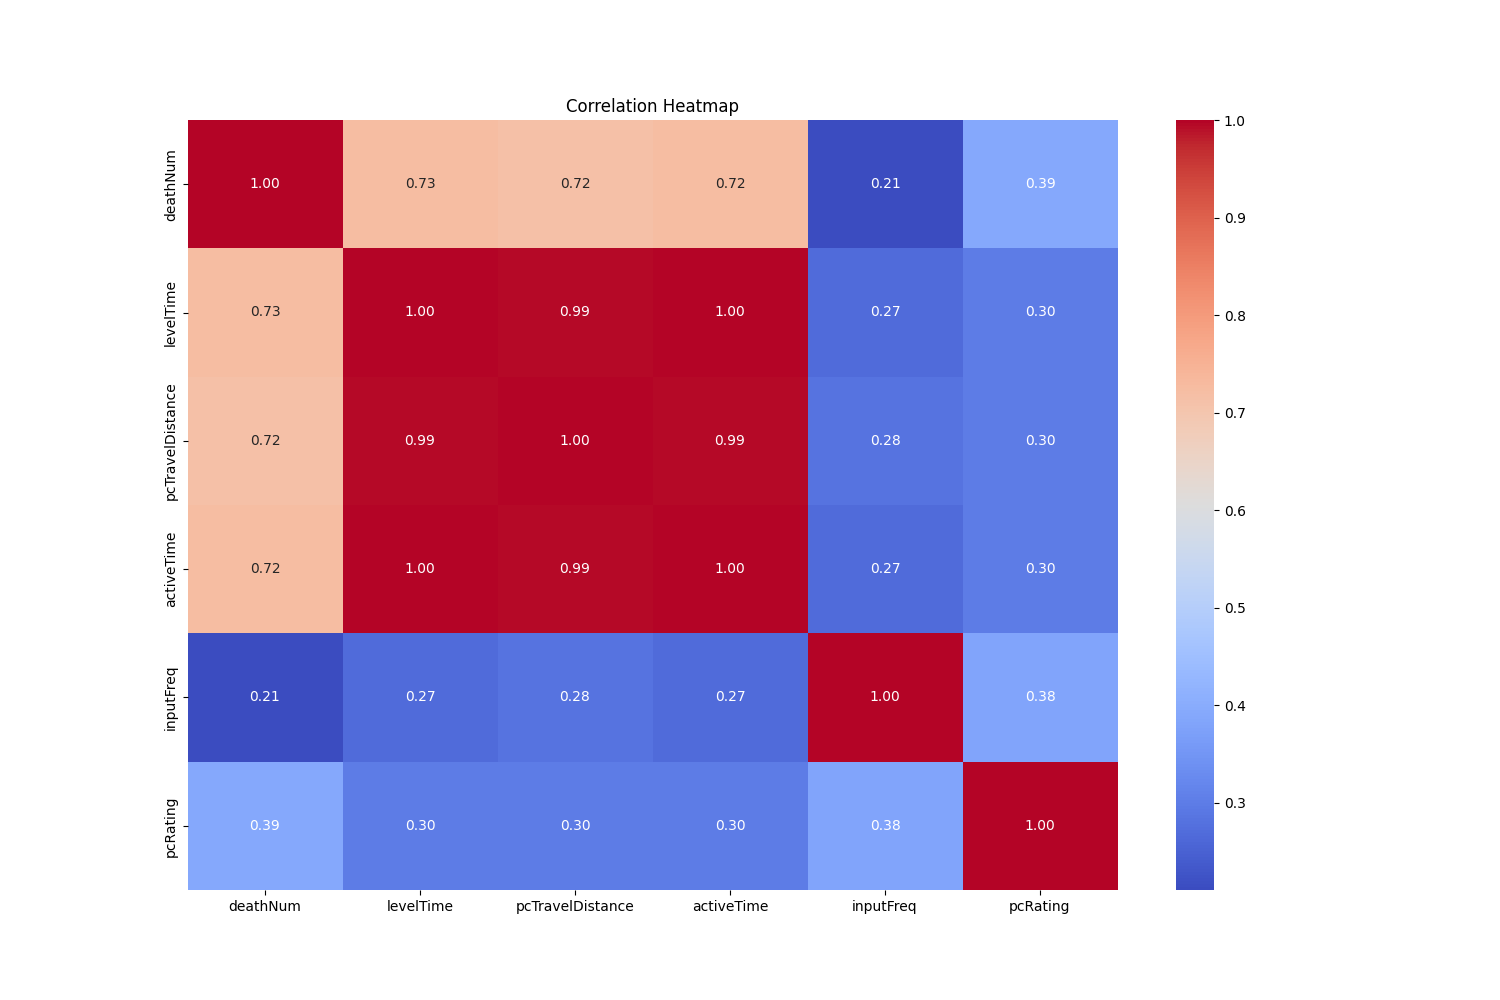
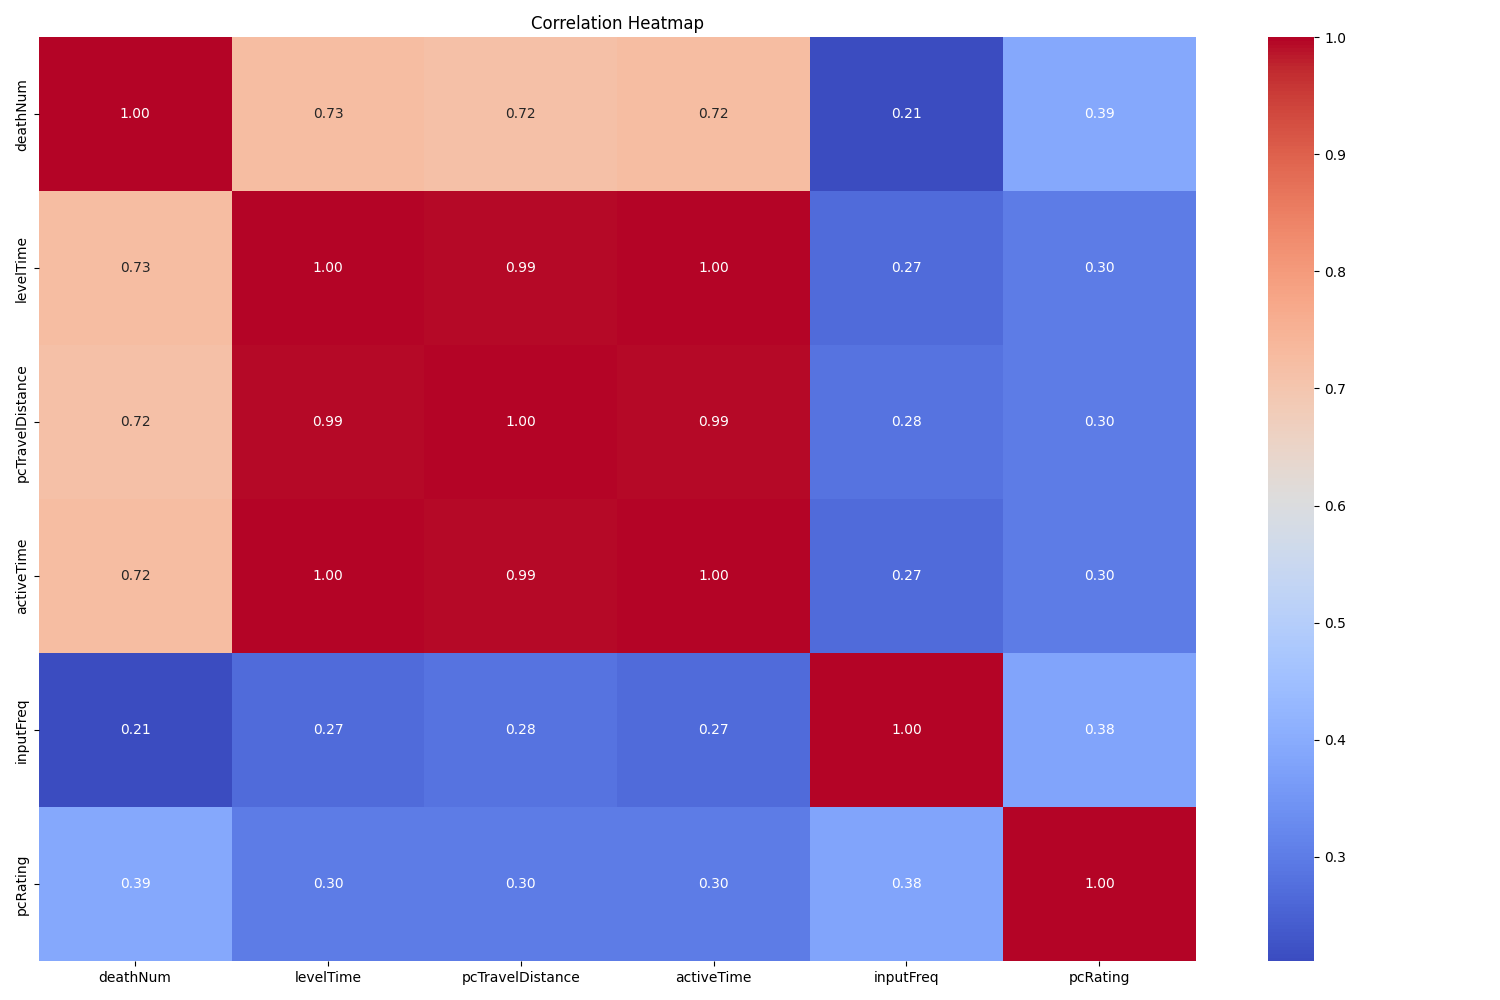
Error distribution

diff --git a/main.py b/main.py
@@ -11,9 +11,11 @@ import dataProcessing
 
 from sklearn.ensemble import RandomForestRegressor
 from sklearn.metrics import mean_squared_error
+from scipy.stats import norm
 import joblib
 
-def MLP_model(X,y):
+
+def mlp_model(X, y):
     X_train, X_temp, y_train, y_temp = train_test_split(X, y, test_size=0.3, random_state=42)
     X_val, X_test, y_val, y_test = train_test_split(X_temp, y_temp, test_size=0.5, random_state=42)
     model = keras.Sequential([
@@ -36,9 +38,9 @@ def MLP_model(X,y):
     with open('./data/MLP_model_test.json', 'w') as f:
         json.dump({"Loss": test_history[0], "MAE": test_history[1]}, f)
 
+
 # plotting for a single model
 def plotting(filename):
-
     with open(filename, 'r') as f:
         history = json.load(f)
 
@@ -62,6 +64,7 @@ def plotting(filename):
     plt.show()
     plt.close()
 
+
 # top loss and MAE
 def top_result(filename):
     with open(filename, 'r') as f:
@@ -77,54 +80,95 @@ def top_result(filename):
           '\nTop-1 validation mae:', top_val_mae)
 
 
-def scatter_plot(X, y, model_type):
-    if (model_type == 1):
+def predict(X, y, model_type):
+    if model_type == 1:
         X_train, X_temp, y_train, y_temp = train_test_split(X, y, test_size=0.3, random_state=42)
         X_val, X_test, y_val, y_test = train_test_split(X_temp, y_temp, test_size=0.5, random_state=42)
         model = keras.models.load_model("data/MLP_model.h5")
         model.summary()
-    elif (model_type == 2):
+    elif model_type == 2:
         X_train, X_test, y_train, y_test = train_test_split(X, y, test_size=0.2, random_state=42)
         model = joblib.load('data/RandomForest_model.pkl')
 
     X_test = X_test.to_numpy()
     y_test = y_test.to_numpy()
     y_predicted = [model.predict(input_data.reshape(1, -1)) for input_data in X_test]
+    # y_predicted = [np.round(value) for value in y_predicted]
+    return y_test,y_predicted
+
+
+# scatter plot
+def scatter_plot(X, y, model_type):
+    y_test, y_predicted = predict(X, y,model_type)
     # scatter plot
     plt.figure(figsize=(6, 6))
-    plt.scatter(y_test, y_predicted, c='b', label='Predicted Difficulty', alpha=0.3)
+    plt.scatter(y_test, y_predicted, c='b', label='Predicted rating', alpha=0.3)
     plt.plot([1, 5], [1, 5], 'r--', label='Ideal Line')
-    plt.title('Rating vs Predicted')
-    plt.xlabel('Rating')
-    plt.ylabel('Predicted')
+    plt.title('Actual rating vs Predicted rating')
+    plt.xlabel('Actual rating')
+    plt.ylabel('Predicted rating')
     plt.legend()
     plt.grid(True)
-    if (model_type == 1):
+    if model_type == 1:
         plt.savefig('data/MLP_model_scatter_plot.png')
-    elif (model_type == 2):
+    elif model_type == 2:
         plt.savefig('data/RandomForest_model_scatter_plot.png')
     plt.show()
     plt.close()
 
+
+# This one measures the linear correlation, it shouldn't be used
 def heatmap_plot(X, y, model_type):
-    if (model_type == 1):
+    if model_type == 1:
         X_train, X_temp, y_train, y_temp = train_test_split(X, y, test_size=0.3, random_state=42)
         X_val, X_test, y_val, y_test = train_test_split(X_temp, y_temp, test_size=0.5, random_state=42)
-    elif (model_type == 2):
+    elif model_type == 2:
         X_train, X_test, y_train, y_test = train_test_split(X, y, test_size=0.2, random_state=42)
 
     df = pd.concat([X_test, y_test], axis=1)
     correlation_matrix = df.corr()
-
-    plt.figure(figsize=(15, 10))
+    plt.figure(figsize=(15, 10), tight_layout=True)
     sns.heatmap(correlation_matrix, annot=True, cmap='coolwarm', fmt=".2f")
+
     plt.title('Correlation Heatmap')
-    if (model_type == 1):
+    if model_type == 1:
         plt.savefig('data/MLP_model_scatter_plot.png')
-    elif (model_type == 2):
+    elif model_type == 2:
         plt.savefig('data/RandomForest_model_heatmap_plot.png')
     plt.show()
     plt.close()
+
+
+# error distribution
+def error_distribution_plot(X, y, model_type):
+    y_test, y_predicted = predict(X, y, model_type)
+    if model_type == 1:
+        y_predicted = [value[0][0] for value in y_predicted]
+    elif model_type == 2:
+        y_predicted = [value[0] for value in y_predicted]
+    residuals = y_test - y_predicted
+
+    plt.figure(figsize=(8, 6))
+    sns.histplot(residuals, kde=True, color='blue', bins=10, label='Residuals')
+    plt.title('Error Distribution')
+    plt.xlabel('Residuals')
+    plt.ylabel('Frequency')
+
+    # estimate parameters of a normal distribution curve
+    mean_residual = np.mean(residuals)
+    std_residual = np.std(residuals)
+    xmin, xmax = plt.xlim()
+    x = np.linspace(xmin, xmax, 100)
+    p = norm.pdf(x, mean_residual, std_residual)
+    plt.plot(x, p, 'k', linewidth=2, label='Normal Distribution')
+    plt.legend()
+    if model_type == 1:
+        plt.savefig('data/MLP_model_error_dist_plot.png')
+    elif model_type == 2:
+        plt.savefig('data/RandomForest_model_error_dist_plot.png')
+    plt.show()
+    plt.close()
+
 
 def random_forest(X, y):
     X_train, X_test, y_train, y_test = train_test_split(X, y, test_size=0.2, random_state=42)
@@ -141,7 +185,7 @@ if __name__ == '__main__':
     data_path = 'data/output.csv'
     input_data = pd.read_csv(data_path)
     X, y = dataProcessing.create_dataset(input_data)
-    # MLP_model(X, y)
+    # mlp_model(X, y)
     # random_forest(X, y)
 
     history = 'data/MLP_model_train.json'
@@ -152,3 +196,5 @@ if __name__ == '__main__':
     # scatter_plot(X, y, model_type=2)
     # heatmap_plot(X, y, model_type=1)
     # heatmap_plot(X, y, model_type=2)
+    # error_distribution_plot(X, y, model_type=1)
+    # error_distribution_plot(X, y, model_type=2)
